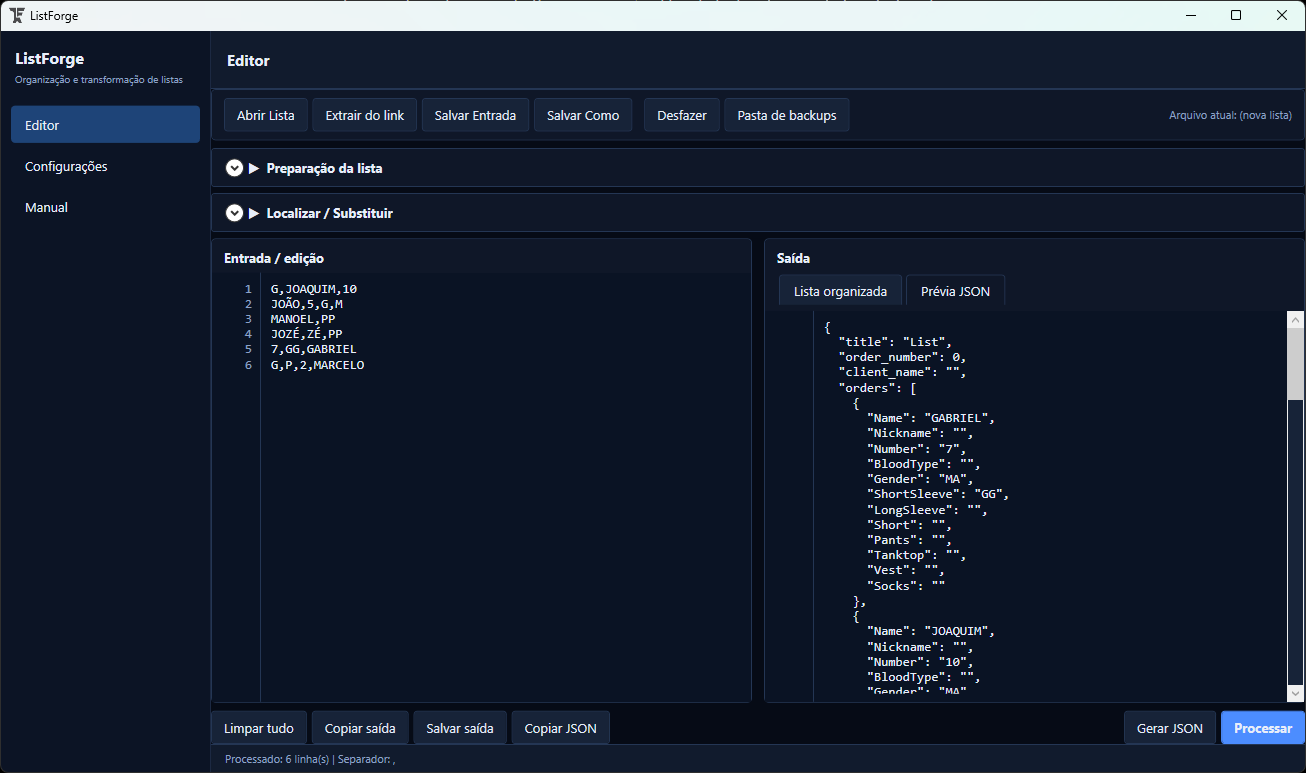
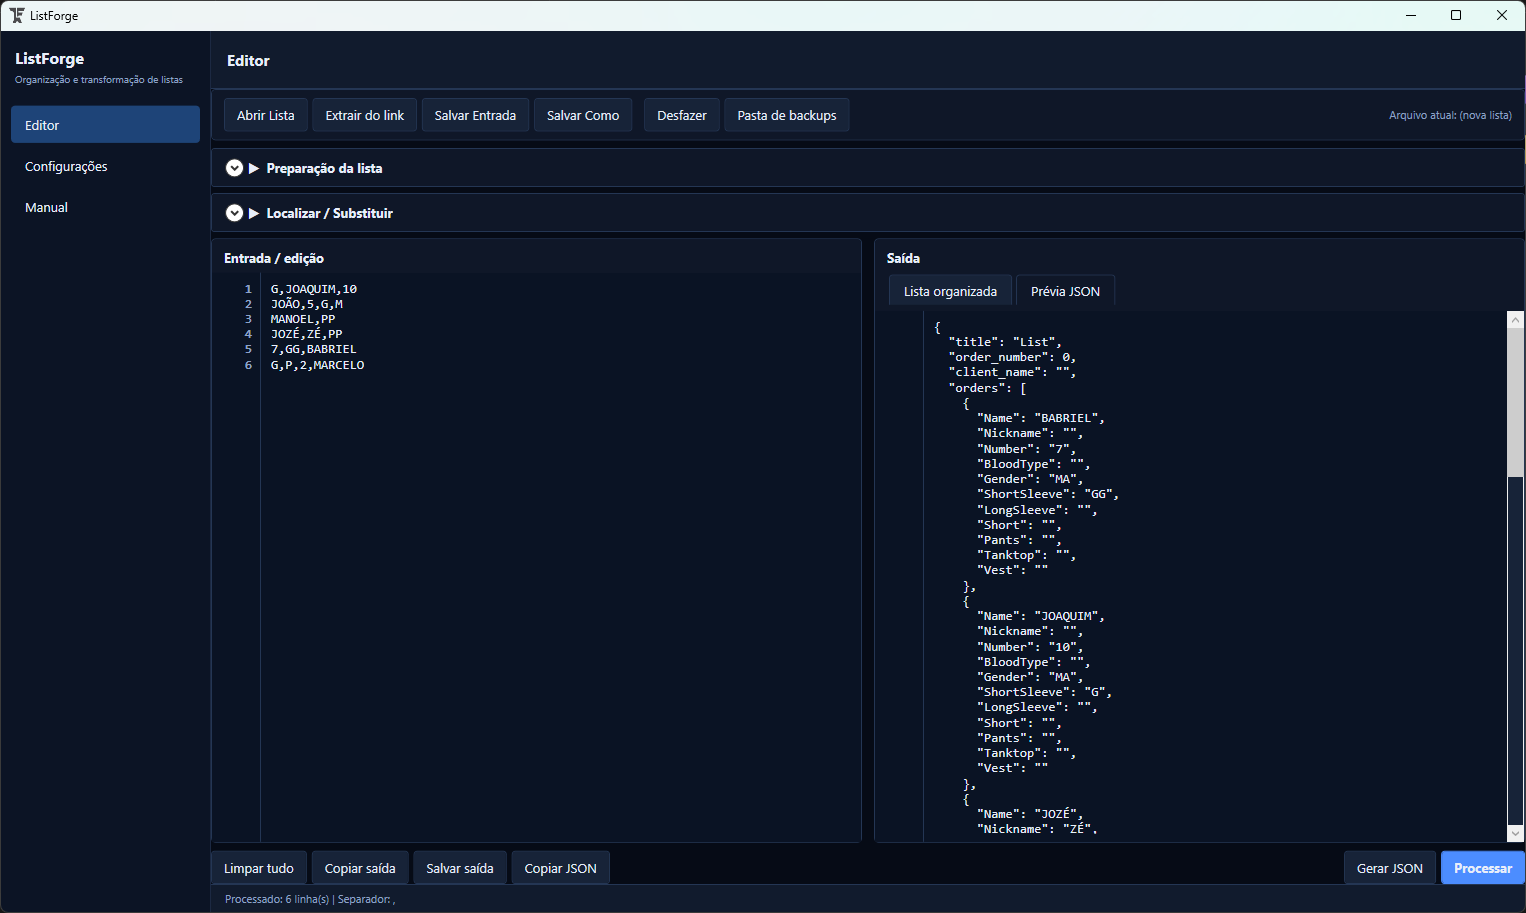
feat: add trial build and preserve input order

diff --git a/UI/Views/ManualView.xaml b/UI/Views/ManualView.xaml
@@ -67,7 +67,7 @@ Text="O painel Localizar / Substituir é usado para revisar e corrigir a entrada
 
       <Expander Header="Saída organizada" Margin="0,0,0,6">
         <TextBlock Margin="14,8,14,14" TextWrapping="Wrap" Foreground="{StaticResource TextMutedBrush}" FontFamily="Segoe UI" FontSize="13"
-Text="A Lista organizada é a principal saída visual do programa, montada a partir da entrada já interpretada e normalizada.&#x0a;&#x0a;Estrutura geral:&#x0a;• Nome&#x0a;• Número&#x0a;• colunas de tamanhos por grupo ativo (Masculino / Feminino / Infantil)&#x0a;• coluna de meião, quando existir&#x0a;• Apelido, quando houver segunda string livre&#x0a;• Tipo sanguíneo, depois do apelido, somente quando houver terceira string livre&#x0a;&#x0a;Se houver mistura de grupos na mesma linha original, o programa separa em linhas diferentes e preserva os espaços vazios internos necessários.&#x0a;Quando houver apelido ou tipo sanguíneo no final, o programa remove preenchimentos finais vazios antes desses campos extras.&#x0a;Se a linha original tiver apenas um grupo, as colunas de tamanho são compactadas para evitar deslocamento inicial desnecessário.&#x0a;Se houver meião nessa mesma linha, ele acompanha a primeira linha gerada do kit.&#x0a;Se houver quantidade no formato 3-P, ele expande em várias linhas.&#x0a;&#x0a;Botões relacionados:&#x0a;• Copiar saída — copia o texto da saída organizada.&#x0a;• Salvar saída — salva a saída em arquivo de texto.&#x0a;&#x0a;Se a saída ainda estiver vazia, o programa tenta processar antes de copiar ou salvar."/>
+Text="A Lista organizada é a principal saída visual do programa, montada a partir da entrada já interpretada e normalizada, preservando a ordem original das linhas de entrada.&#x0a;&#x0a;Estrutura geral:&#x0a;• Nome&#x0a;• Número&#x0a;• colunas de tamanhos por grupo ativo (Masculino / Feminino / Infantil)&#x0a;• coluna de meião, quando existir&#x0a;• Apelido, quando houver segunda string livre&#x0a;• Tipo sanguíneo, depois do apelido, somente quando houver terceira string livre&#x0a;&#x0a;Se houver mistura de grupos na mesma linha original, o programa separa em linhas diferentes e preserva os espaços vazios internos necessários.&#x0a;Quando houver apelido ou tipo sanguíneo no final, o programa remove preenchimentos finais vazios antes desses campos extras.&#x0a;Se a linha original tiver apenas um grupo, as colunas de tamanho são compactadas para evitar deslocamento inicial desnecessário.&#x0a;Se houver meião nessa mesma linha, ele acompanha a primeira linha gerada do kit.&#x0a;Se houver quantidade no formato 3-P, ele expande em várias linhas.&#x0a;&#x0a;Botões relacionados:&#x0a;• Copiar saída — copia o texto da saída organizada.&#x0a;• Salvar saída — salva a saída em arquivo de texto.&#x0a;&#x0a;Se a saída ainda estiver vazia, o programa tenta processar antes de copiar ou salvar."/>
       </Expander>
 
       <Expander Header="JSON e prévia JSON" Margin="0,0,0,6">
@@ -75,6 +75,10 @@ Text="A Lista organizada é a principal saída visual do programa, montada a par
 Text="Além da Lista organizada, o programa também monta uma Prévia JSON, gerada a partir do conteúdo processado.&#x0a;&#x0a;Opções configuráveis em Configurações:&#x0a;• Mostrar área de JSON&#x0a;• Mostrar botão Gerar JSON&#x0a;• Mostrar botão Copiar JSON&#x0a;&#x0a;Botões:&#x0a;• Copiar JSON — copia a prévia atual.&#x0a;• Gerar JSON — salva um arquivo .json no disco.&#x0a;&#x0a;O JSON reflete o conteúdo depois das regras de processamento, incluindo expansão de quantidade e separação por grupo. O meião aparece apenas na Lista organizada e não é exportado para o JSON."/>
       </Expander>
 
+      <Expander Header="Versão Trial" Margin="0,0,0,6">
+        <TextBlock Margin="14,8,14,14" TextWrapping="Wrap" Foreground="{StaticResource TextMutedBrush}" FontFamily="Segoe UI" FontSize="13"
+Text="A versão Trial é identificada como ListForge Trial no título/interface e no nome do executável.&#x0a;&#x0a;Ela possui limite de processamentos. Cada processamento concluído com sucesso consome 1 crédito. Erro de entrada, validação inválida, falha antes do processamento final ou cancelamento do usuário não consomem crédito.&#x0a;&#x0a;A versão completa não consome créditos e não depende do controle Trial."/>
+      </Expander>
       <Expander Header="Configurações" Margin="0,0,0,6">
         <TextBlock Margin="14,8,14,14" TextWrapping="Wrap" Foreground="{StaticResource TextMutedBrush}" FontFamily="Segoe UI" FontSize="13"
 Text="A tela Configurações é dividida em grupos principais:&#x0a;&#x0a;1. Exibição&#x0a;  • mostrar área de JSON / botão Gerar JSON / botão Copiar JSON&#x0a;&#x0a;2. Saída&#x0a;  • pasta padrão, nome padrão, modo de capitalização, separador padrão&#x0a;&#x0a;3. Tema&#x0a;  • seleção do tema da interface (ListForge Dark / ListForge Light / SISBolt)&#x0a;&#x0a;4. Tamanhos&#x0a;  • cadastro separado por Masculino, Feminino, Infantil e Meião (tamanhos-base, prefixos, sufixos)&#x0a;&#x0a;Na parte inferior: Salvar configurações / Restaurar padrões gerais / Restaurar tamanhos padrão."/>

diff --git a/ViewModels/MainViewModel.cs b/ViewModels/MainViewModel.cs
@@ -16,6 +16,7 @@ using Newtonsoft.Json.Linq;
 using CoreHelper = ListForge.Core.SizeHelper;
 using CoreProcessor = ListForge.Core.ListProcessor;
 using FileImporter = ListForge.Core.FileImporter;
+using TrialManager = ListForge.Core.TrialManager;
 
 namespace ListForge.ViewModels;
 
@@ -58,7 +59,9 @@ public class MainViewModel : INotifyPropertyChanged
     private string _replaceText = "";
     private bool _findMatchCase;
     private string _currentFileLabel = "Arquivo atual: (nova lista)";
-    private string _statusText = "Pronto.";
+    private string _statusText = ConfigManager.IsTrialBuild
+        ? $"Pronto. Trial: {TrialManager.RemainingProcessings}/{TrialManager.Limit} processamento(s) restante(s)."
+        : "Pronto.";
     private string _selectedOutputSection = "list";
     private string _selectedSockSize = "";
     private bool _showJsonSection;
@@ -462,6 +465,14 @@ public class MainViewModel : INotifyPropertyChanged
             return;
         }
 
+        if (!TrialManager.HasCredits)
+        {
+            var message = "Limite de processamentos da versão Trial atingido.";
+            StatusText = message;
+            MessageBox.Show(message, ConfigManager.AppTitle, MessageBoxButton.OK, MessageBoxImage.Warning);
+            return;
+        }
+
         try
         {
             var rows = CoreProcessor.ProcessText(InputText, EditorSeparator, _sizeCfg);
@@ -476,6 +487,8 @@ public class MainViewModel : INotifyPropertyChanged
             var orders = CoreProcessor.BuildOrdersFromOrderlist(rows, _sizeCfg, caseMode);
             var preview = CoreProcessor.BuildJsonPreview(orders);
 
+            TrialManager.ConsumeSuccessfulProcessing();
+
             _rows = rows;
             _lastOrders = orders;
             _lastJson = preview;
@@ -484,7 +497,7 @@ public class MainViewModel : INotifyPropertyChanged
             JsonText = preview;
             SelectedOutputSection = "list";
 
-            StatusText = $"Processado: {rows.Count} linha(s) | Separador: {CoreProcessor.SeparatorLabel(EditorSeparator)!.Replace("\"", "'")}";
+            StatusText = $"Processado: {rows.Count} linha(s) | Separador: {CoreProcessor.SeparatorLabel(EditorSeparator)!.Replace("\"", "'")}{TrialManager.StatusSuffix}";
         }
         catch (Exception ex)
         {

diff --git a/Core/TrialManager.cs b/Core/TrialManager.cs
@@ -1,0 +1,63 @@
+using System.IO;
+using ListForge.Config;
+using Newtonsoft.Json;
+
+namespace ListForge.Core;
+
+public static class TrialManager
+{
+    private sealed class TrialState
+    {
+        public int UsedProcessings { get; set; }
+    }
+
+    public static bool IsTrial => ConfigManager.IsTrialBuild;
+
+    public static int Limit => ConfigManager.TrialProcessingLimit;
+
+    public static int UsedProcessings => IsTrial ? LoadState().UsedProcessings : 0;
+
+    public static int RemainingProcessings => IsTrial ? Math.Max(0, Limit - UsedProcessings) : int.MaxValue;
+
+    public static bool HasCredits => !IsTrial || RemainingProcessings > 0;
+
+    public static string StatusSuffix =>
+        IsTrial ? $" | Trial: {RemainingProcessings}/{Limit} processamento(s) restante(s)" : "";
+
+    public static void ConsumeSuccessfulProcessing()
+    {
+        if (!IsTrial)
+            return;
+
+        var state = LoadState();
+        if (state.UsedProcessings >= Limit)
+            throw new InvalidOperationException("Limite de processamentos da versão Trial atingido.");
+
+        state.UsedProcessings++;
+        SaveState(state);
+    }
+
+    private static TrialState LoadState()
+    {
+        if (!File.Exists(ConfigManager.TrialStatePath))
+            return new TrialState();
+
+        try
+        {
+            var json = File.ReadAllText(ConfigManager.TrialStatePath);
+            return JsonConvert.DeserializeObject<TrialState>(json) ?? new TrialState();
+        }
+        catch
+        {
+            return new TrialState();
+        }
+    }
+
+    private static void SaveState(TrialState state)
+    {
+        Directory.CreateDirectory(ConfigManager.AppDir);
+        File.WriteAllText(
+            ConfigManager.TrialStatePath,
+            JsonConvert.SerializeObject(state, Formatting.Indented));
+    }
+}

diff --git a/Config/ConfigManager.cs b/Config/ConfigManager.cs
@@ -7,12 +7,24 @@ namespace ListForge.Config;
 
 public static class ConfigManager
 {
-    public static readonly string AppName = "ListForge";
+    public const string AppName = "ListForge";
+
+#if TRIAL_BUILD
+    public const bool IsTrialBuild = true;
+    public const string EditionName = "Trial";
+#else
+    public const bool IsTrialBuild = false;
+    public const string EditionName = "Completo";
+#endif
+
+    public static readonly string AppTitle = IsTrialBuild ? $"{AppName} Trial" : AppName;
+    public static readonly int TrialProcessingLimit = ResolveTrialProcessingLimit();
 
     public static readonly string AppDir;
     public static readonly string ConfigPath;
     public static readonly string BackupDir;
     public static readonly string SizeConfigPath;
+    public static readonly string TrialStatePath;
 
     static ConfigManager()
     {
@@ -20,9 +32,16 @@ public static class ConfigManager
         ConfigPath = Path.Combine(AppDir, "config.json");
         BackupDir = Path.Combine(AppDir, "backups");
         SizeConfigPath = Path.Combine(AppDir, "sizes.json");
+        TrialStatePath = Path.Combine(AppDir, "trial-state.json");
 
         Directory.CreateDirectory(AppDir);
         Directory.CreateDirectory(BackupDir);
+    }
+
+    private static int ResolveTrialProcessingLimit()
+    {
+        var raw = Environment.GetEnvironmentVariable("LISTFORGE_TRIAL_PROCESSING_LIMIT");
+        return int.TryParse(raw, out var value) && value > 0 ? value : 10;
     }
 
     private static string ResolveWritableAppDir()

diff --git a/UI/Views/MainWindow.xaml.cs b/UI/Views/MainWindow.xaml.cs
@@ -1,5 +1,6 @@
 using System.Windows;
 using System.Windows.Controls;
+using ListForge.Config;
 using ListForge.ViewModels;
 
 namespace ListForge.UI.Views;
@@ -12,8 +13,14 @@ public partial class MainWindow : Window
     public MainWindow()
     {
         InitializeComponent();
+        Title = ConfigManager.AppTitle;
         _vm = new MainViewModel();
         DataContext = _vm;
+
+        LogoTitle.Text = ConfigManager.AppTitle;
+        LogoSubtitle.Text = ConfigManager.IsTrialBuild
+            ? $"Versão Trial - limite de {ConfigManager.TrialProcessingLimit} processamentos"
+            : "Organização e transformação de listas";
 
         EditorViewControl.SetViewModel(_vm);
         SettingsViewControl.SetViewModel(_vm);

diff --git a/App.xaml.cs b/App.xaml.cs
@@ -2,6 +2,7 @@ using System.Runtime.InteropServices;
 using System.Text;
 using System.Windows;
 using System.Windows.Threading;
+using ListForge.Config;
 
 namespace ListForge;
 
@@ -24,7 +25,7 @@ public partial class App : Application
     private static void OnDispatcherUnhandledException(object sender, DispatcherUnhandledExceptionEventArgs e)
     {
         var message = BuildExceptionMessage(e.Exception);
-        MessageBox.Show(message, "ListForge", MessageBoxButton.OK, MessageBoxImage.Error);
+        MessageBox.Show(message, ConfigManager.AppTitle, MessageBoxButton.OK, MessageBoxImage.Error);
         e.Handled = true;
     }
 

diff --git a/Core/ListProcessor.cs b/Core/ListProcessor.cs
@@ -221,13 +221,6 @@ public static class ListProcessor
                 throw new ArgumentException($"Linha {i + 1}: {ex.Message}");
             }
         }
-
-        parsed.Sort((a, b) =>
-        {
-            var c = string.Compare(a.Name, b.Name, StringComparison.OrdinalIgnoreCase);
-            return c != 0 ? c : string.Compare(a.Number, b.Number, StringComparison.Ordinal);
-        });
-
         return parsed;
     }
 

diff --git a/README.md b/README.md
@@ -7,7 +7,7 @@ O projeto foi criado para reduzir retrabalho em operações que recebem listas e
 ![Windows](https://img.shields.io/badge/Windows-10%20%2F%2011-2563EB?style=for-the-badge&logo=windows)
 ![.NET](https://img.shields.io/badge/.NET-8.0-512BD4?style=for-the-badge&logo=dotnet)
 ![WPF](https://img.shields.io/badge/UI-WPF-0F172A?style=for-the-badge)
-![Version](https://img.shields.io/badge/version-2.1.9-16A34A?style=for-the-badge)
+![Version](https://img.shields.io/badge/version-2.1.11-16A34A?style=for-the-badge)
 
 ---
 
@@ -113,7 +113,7 @@ O processamento principal está em `Core/ListProcessor.cs`. Cada linha é interp
 - até dois campos extras: apelido e tipo sanguíneo;
 - tamanhos com quantidade no formato `2-G`, `3-M` ou equivalente válido.
 
-Após a leitura, as linhas são ordenadas por nome e número. A saída textual distribui os tamanhos por grupos reconhecidos, preserva colunas vazias internas quando necessário, compacta colunas finais antes dos campos extras e formata esses campos no final como apelido seguido de tipo sanguíneo quando esse terceiro campo existir.
+Após a leitura, as linhas mantêm a mesma ordem da entrada. A saída textual distribui os tamanhos por grupos reconhecidos, preserva colunas vazias internas quando necessário, compacta colunas finais antes dos campos extras e formata esses campos no final como apelido seguido de tipo sanguíneo quando esse terceiro campo existir.
 
 ## Suporte a quantidades por tamanho
 
@@ -128,6 +128,14 @@ CARLA,12,3-BLP
 ```
 
 No processamento, quantidades maiores que uma unidade são expandidas em linhas equivalentes para a saída e para o JSON.
+
+## Versão Trial
+
+A build Trial é gerada separadamente da versão completa e aparece como `ListForge Trial` no título/interface e no nome do executável.
+
+O Trial possui limite de processamentos de listas. Cada processamento concluído com sucesso consome 1 crédito. Erro de entrada, validação inválida, falha antes do processamento final ou cancelamento do usuário não consomem crédito.
+
+A versão completa não consome créditos e não depende do controle Trial. O limite padrão do Trial é 10 processamentos e pode ser ajustado pela variável de ambiente `LISTFORGE_TRIAL_PROCESSING_LIMIT`.
 
 ## Grupos de tamanho configuráveis
 
@@ -257,7 +265,7 @@ O projeto segue uma organização simples baseada em WPF e MVVM:
 - `UI/Themes` contém os dicionários de estilo.
 - `ViewModels/MainViewModel.cs` centraliza estado, comandos e integração entre UI, configuração e processamento.
 - `Core/FileImporter.cs` concentra leitura de arquivos, OCR e normalização de textos importados.
-- `Core/ListProcessor.cs` concentra interpretação, ordenação, geração de saída e JSON.
+- `Core/ListProcessor.cs` concentra interpretação, preservação da ordem de entrada, geração de saída e JSON.
 - `Core/SizeHelper.cs` concentra validação e montagem dos grupos de tamanho.
 - `Config/ConfigManager.cs` gerencia configurações, tamanhos e backups.
 - `Models` contém os objetos de configuração e linhas processadas.
@@ -318,18 +326,18 @@ bin\Debug\net8.0-windows\ListForge.exe
 
 ## Publicação
 
-O projeto está configurado para Windows x64 e versão `2.1.9`.
+O projeto está configurado para Windows x64 e versão `2.1.11`.
 
 Publicação instalável:
 
 ```powershell
-dotnet publish -c Release -r win-x64 --self-contained true -p:DebugType=None -p:DebugSymbols=false -o bin\Release\dist\2.1.9\ListForge-Installable
+dotnet publish -c Release -r win-x64 --self-contained true -p:DebugType=None -p:DebugSymbols=false -o bin\Release\dist\2.1.11\ListForge-Installable
 ```
 
 Publicação em arquivo único:
 
 ```powershell
-dotnet publish -c Release -r win-x64 --self-contained true -p:PublishSingleFile=true -p:IncludeAllContentForSelfExtract=true -p:DebugType=None -p:DebugSymbols=false -o bin\Release\dist\2.1.9\ListForge-Portable-OneFile
+dotnet publish -c Release -r win-x64 --self-contained true -p:PublishSingleFile=true -p:IncludeAllContentForSelfExtract=true -p:DebugType=None -p:DebugSymbols=false -o bin\Release\dist\2.1.11\ListForge-Portable-OneFile
 ```
 
 Instalador:
@@ -338,10 +346,10 @@ Instalador:
 installer\ListForge.iss
 ```
 
-O script do Inno Setup usa a saída `bin\Release\dist\2.1.9\ListForge-Installable` e gera o instalador em:
+O script do Inno Setup usa a saída `bin\Release\dist\2.1.11\ListForge-Installable` e gera o instalador em:
 
 ```text
-bin\Release\dist\2.1.9\Installer
+bin\Release\dist\2.1.11\Installer
 ```
 
 ## Dependências principais
@@ -375,17 +383,17 @@ Entrada simples:
 JOAO,10,G
 MARIA,2,M
 PEDRO,8,2-P
-ANA,14,BLG,JUVENIL
+ANA,14,BLG
 ```
 
 Saída textual com separador vírgula:
 
 ```text
-ANA,14,BLG,JUVENIL
 JOAO,10,G
 MARIA,2,M
 PEDRO,8,P
 PEDRO,8,P
+ANA,14,BLG
 ```
 
 Prévia JSON simplificada:

diff --git a/CHANGELOG.md b/CHANGELOG.md
@@ -4,6 +4,15 @@ Todas as mudanças relevantes do ListForge serão documentadas neste arquivo.
 
 O formato segue uma estrutura simples inspirada em Keep a Changelog, com entradas agrupadas por versão.
 
+## [2.1.11] - 2026-05-31
+
+### Alterado
+
+- O processamento agora preserva a ordem original das linhas de entrada.
+- Adicionada build Trial separada, identificada no título/interface e limitada por créditos de processamento.
+- Cada processamento concluído com sucesso consome 1 crédito no Trial; entradas inválidas, erros de validação e cancelamentos não consomem crédito.
+- A build completa continua sem consumo de créditos e sem dependência do controle Trial.
+
 ## [2.1.9] - 2026-05-27
 
 ### Alterado
